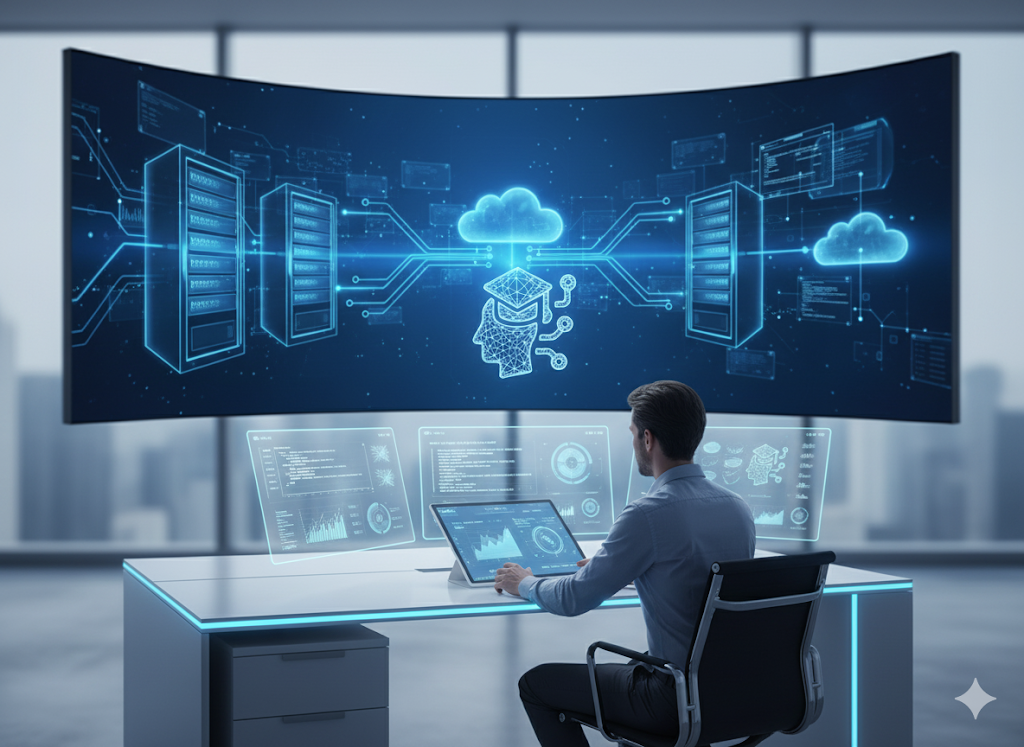
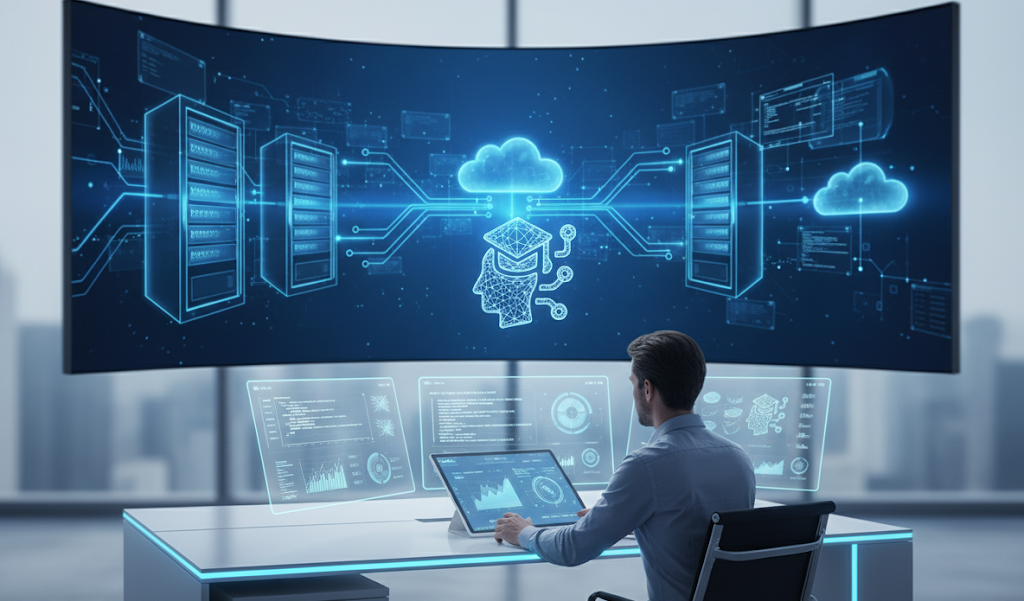
Update

diff --git a/docs/slides.html b/docs/slides.html
@@ -886,7 +886,7 @@
 
         <!-- Slide 4: Solution -->
         <div class="slide">
-            <div class="slide-content" style="position: relative;">
+            <div class="slide-content">
                 <h2>The Solution</h2>
                 <div class="subtitle">AI-powered company workflow simulations</div>
                 
@@ -894,23 +894,23 @@
                     Practice company-specific workflows before you apply
                 </div>
 
-                <!-- Background image with overlay -->
-                <div style="position: absolute; top: 0; left: 0; right: 0; bottom: 0; z-index: 0; opacity: 0.08; pointer-events: none;">
-                    <img src="simulation-hero.png" alt="" style="width: 100%; height: 100%; object-fit: cover; filter: blur(2px);">
-                </div>
-
-                <div style="display: grid; grid-template-columns: 1fr; gap: clamp(1rem, 2vh, 2rem); position: relative; z-index: 1;">
-                    <div style="display: grid; grid-template-columns: repeat(auto-fit, minmax(min(300px, 100%), 1fr)); gap: clamp(1.5rem, 3vw, 2.5rem);">
-                        <ul style="margin: 0; background: rgba(255, 255, 255, 0.9); backdrop-filter: blur(10px); padding: clamp(1rem, 2vw, 1.5rem); border-radius: 12px; border: 1px solid rgba(226, 232, 240, 0.6);">
+                <div style="display: grid; grid-template-columns: 1fr 1fr; gap: clamp(2rem, 3vw, 3rem); align-items: start;">
+                    <div style="display: flex; flex-direction: column; gap: clamp(0.5rem, 1vh, 0.75rem);">
+                        <ul style="margin: 0; padding: 0;">
                             <li>Practice real tech stacks before applying</li>
                             <li>Debug payment systems and API integrations</li>
                             <li>Deploy features in simulated environments</li>
                             <li>Get AI mentoring through complex workflows</li>
                         </ul>
-                        <div class="highlight-box" style="margin: 0; background: rgba(239, 246, 255, 0.95); backdrop-filter: blur(10px);">
-                            <h4 style="color: var(--primary); margin-bottom: clamp(0.5rem, 1vh, 0.75rem); font-size: clamp(0.95rem, 1.8vw, 1.1rem);">Example Scenario</h4>
-                            <p style="font-style: italic; font-size: clamp(0.85rem, 1.5vw, 1rem); margin: 0; line-height: 1.5;">"The Stripe dashboard is failing - debug the React component and Node.js payment service integration"</p>
+                        
+                        <div class="highlight-box" style="margin-top: clamp(1rem, 2vh, 1.5rem);">
+                            <h4 style="color: var(--primary); margin-bottom: clamp(0.5rem, 1vh, 0.75rem); font-size: clamp(0.9rem, 1.6vw, 1.1rem);">Example Scenario</h4>
+                            <p style="font-style: italic; font-size: clamp(0.8rem, 1.4vw, 0.95rem); margin: 0; line-height: 1.5;">"The Stripe dashboard is failing - debug the React component and Node.js payment service integration"</p>
                         </div>
+                    </div>
+                    
+                    <div style="display: flex; align-items: center; justify-content: center; height: 100%;">
+                        <img src="simulation-hero.png" alt="AI Workflow Simulation" style="width: 100%; height: auto; max-height: 40vh; object-fit: contain; border-radius: 16px; box-shadow: 0 8px 24px rgba(0,0,0,0.12);">
                     </div>
                 </div>
             </div>
